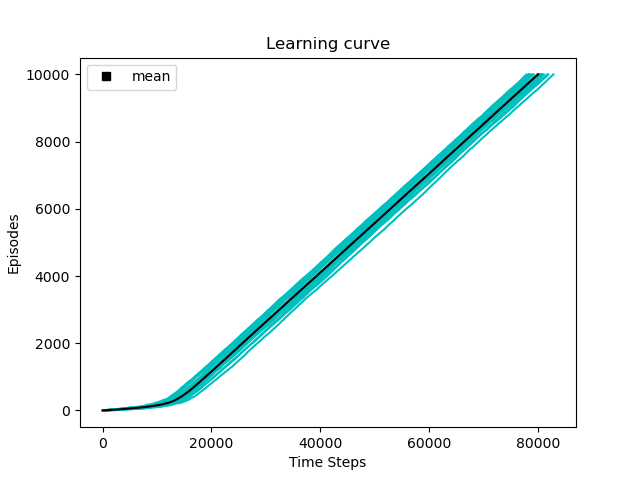
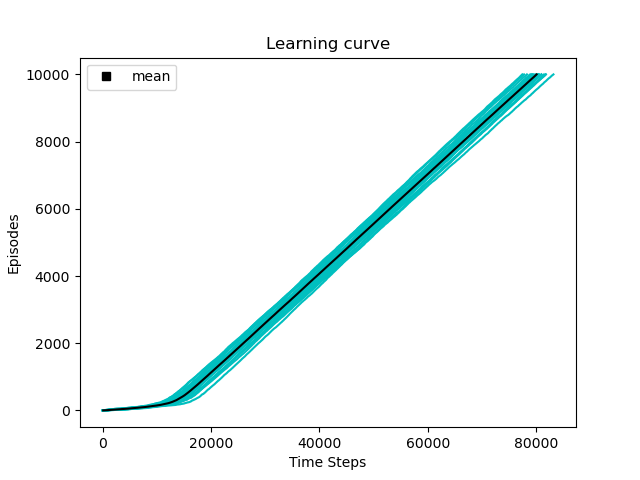
extra credit experiments

diff --git a/HW5/Mountain_Car_SARSA/MC_SARSA.py b/HW5/Mountain_Car_SARSA/MC_SARSA.py
@@ -12,19 +12,25 @@ from math import cos, pi, sin, sqrt
 import statistics
 
 class SARSA:
-    def __init__(self, alpha, gamma, delta, num_bins):
+    def __init__(self, alpha, gamma, delta, num_bins, q_init):
         self.gamma = gamma
         self.alpha = alpha
         self.delta = delta
-
+        self.num_bins = num_bins
         self.bins_x = np.linspace(start=-1.2, stop=0.5, num=num_bins)
         self.bins_v = np.linspace(start=-0.07, stop=0.07, num=num_bins)
 
         self.states = [(i, j) for j in range(num_bins + 1) for i in range(num_bins + 1)]
         self.actions = [-1, 1]
         self.v = np.array([[0.0 for j in range(num_bins + 1)] for i in range(num_bins + 1)])
-        self.q = np.array([[[0.0 for a in range(len(self.actions))] for j in range(num_bins + 1)] for i in range(num_bins + 1)])
-        self.test_pol = np.array([[[float(1/len(self.actions)) for k in range(len(self.actions))]for j in range(num_bins + 1)] for i in range(num_bins + 1)])
+        if q_init == 'zeros':
+            self.q = np.array([[[0.0 for a in range(len(self.actions))] for j in range(num_bins + 1)] for i in range(num_bins + 1)])
+        elif q_init == 'tens':
+            self.q = np.array([[[10.0 for a in range(len(self.actions))] for j in range(num_bins + 1)] for i in range(num_bins + 1)])
+        elif q_init == 'uniform':
+            self.q = np.array([[[random.uniform(0.0, 40.0) for a in range(len(self.actions))] for j in range(num_bins + 1)] for i in range(num_bins + 1)])
+        self.q[num_bins][:] = [0.0 for a in range(len(self.actions))]
+        self.test_pol = np.array([[[float(1/len(self.actions)) for k in range(len(self.actions))] for j in range(num_bins + 1)] for i in range(num_bins + 1)])
 
 
     def trans_func(self, s, a):
@@ -56,16 +62,45 @@ class SARSA:
         return self.actions[chosen_action[0]]
 
     def d0(self):
-        # s_0 = random.uniform(-0.6, -0.4)
-        s_0 = np.random.normal(loc=-0.3, scale=0.1)
-        return (s_0, 0)
+        s_0 = random.uniform(-0.6, -0.4)
+        v_0 = 0
+        # s_0 = random.uniform(-1.2, -0.5)
+        # v_0 = random.uniform(-0.07, 0.07)
+        # s_0 = np.random.normal(loc=-0.3, scale=0.1)
+        return (s_0, v_0)
 
     def reward_function(self, state):
         if state[0] == 0.5:
             return 0
         else:
             return -1
+
+    def estimate_J(self, N):
+        G = 0
+        T = 0
+        for i in range(N):
+            t, reward= self.runEpisode()
+            T += t
+            G += reward
+        return T/N, G/N
     
+    def runEpisode(self, ):
+        reward = 0
+        state = self.d0()
+        # t= 0.0
+        for t in range(1000):
+            action = self.pi_func(self.test_pol, state)
+            # print(action)
+            R = self.reward_function(state)
+            next_state = self.trans_func(state, action)
+            reward += (self.gamma**t) * R
+            if next_state[0] == 0.5:
+                break
+            state = next_state
+            t += 1.0
+        # print("t = {}".format(t))
+        return t, reward
+
     def e_soft_policy_update(self, s, eps):
         row = np.digitize([s[0]], self.bins_x)[0]
         col = np.digitize([s[1]], self.bins_v)[0]
@@ -93,10 +128,10 @@ class SARSA:
         self.test_pol[row][col] = np.exp(p - max(p))/sum(np.exp(p - max(p)))
 
 
-    def update_q(self, s, s_prime, a, r):
+    def update_q(self, s, s_prime, a, r, count):
         # x_t_prime = np.digitize([x_t_prime], self.bins_x)[0]
-        # v_t_prime =
-
+        # v_t_prime = 
+        alpha = self.alpha*(1**count)
         row = np.digitize([s[0]], self.bins_x)[0]
         col = np.digitize([s[1]], self.bins_v)[0]
         index_a = self.actions.index(a)
@@ -105,7 +140,7 @@ class SARSA:
         next_col = np.digitize([s_prime[1]], self.bins_v)[0]
         index_next_a = self.actions.index(next_a)
         self.q[row][col][index_a] = self.q[row][col][index_a] \
-            + self.alpha * (r + (self.gamma * self.q[next_row][next_col][index_next_a]) - self.q[row][col][index_a]) 
+            + alpha * (r + (self.gamma * self.q[next_row][next_col][index_next_a]) - self.q[row][col][index_a]) 
 
 
     def sarsa(self, eps):
@@ -117,6 +152,7 @@ class SARSA:
         while True:
             count += 1
             s = self.d0()
+
             num_steps = 0
             while (s[0] != 0.5):
                 num_steps += 1
@@ -125,7 +161,7 @@ class SARSA:
                 s_prime = self.trans_func(s, a)
                 r = self.reward_function(s)
 
-                self.update_q(s, s_prime, a, r)
+                self.update_q(s, s_prime, a, r, count)
 
                 self.e_soft_policy_update(s=s, eps=min(eps, 1/count))
                 # self.softmax_policy_update(s=s, sigma=count)
@@ -143,6 +179,12 @@ class SARSA:
                 break
                 
         return count, num_episodes_list, num_actions_list, num_steps_list
+    def print_policy(self):
+        actions = ["→", "←"]
+        for i in range(self.num_bins + 1):
+            for j in range(self.num_bins + 1):
+                print(actions[1 - np.argmax(self.test_pol[i][j])], end = " ")
+            print()
 
 
 def main():
@@ -151,53 +193,74 @@ def main():
     delta = 0.1
     sigma = 1
     num_bins = 5
+    eps = 0.0
+    x = 1
+    # bin_factor = [0.75, 1, 1.25, 1.5, 1.75, 2]
+    # for x in bin_factor:
+    # 
+    for q_init in ['zeros','tens','uniform']:
+        num_acts_mean_list = []
+        num_steps_mean = []
+        J = []
+        for _ in tqdm(range(20)):
+            sarsa = SARSA(alpha=alpha, gamma=gamma, delta=delta, num_bins=int(x*num_bins), q_init=q_init)
+            count, num_episodes_list, num_actions_list, num_steps_list = sarsa.sarsa(eps=eps)
+            # print("evaluate policy")
+            # sarsa.print_policy()
+            J.append(sarsa.estimate_J(20)[0])
+            # plt.figure(0)
+            # plt.plot(num_actions_list, num_episodes_list, 'c')
+            # plt.title("Learning curve")
+            # plt.xlabel("Number of Steps till now")
+            # plt.ylabel("Episodes")
+            # num_acts_mean_list.append(num_actions_list)
 
-    num_acts_mean_list = []
-    num_steps_mean = []
-    for _ in tqdm(range(20)):
-        sarsa = SARSA(alpha=alpha, gamma=gamma, delta=delta, num_bins=num_bins)
-        count, num_episodes_list, num_actions_list, num_steps_list = sarsa.sarsa(eps=sigma)
+            # plt.figure(1)
+            # plt.plot(num_episodes_list, num_steps_list, 'c')
+            # plt.title("Learning curve")
+            # plt.xlabel("Time Steps")
+            # plt.ylabel("Episodes")
+            num_steps_mean.append(num_steps_list)
 
-        plt.figure(0)
-        plt.plot(num_actions_list, num_episodes_list, 'c')
-        plt.title("Learning curve")
-        plt.xlabel("Time Steps")
-        plt.ylabel("Episodes")
-        num_acts_mean_list.append(num_actions_list)
+        # column_average = [sum(sub_list) / len(sub_list) for sub_list in zip(*num_acts_mean_list)]
 
-        # plt.figure(1)
-        # plt.plot(num_episodes_list, num_steps_list, 'c')
+        # plt.figure(0)
+        # plt.plot(column_average, num_episodes_list, 'k')
         # plt.title("Learning curve")
-        # plt.xlabel("Time Steps")
+        # plt.xlabel("Number of Steps till now")
         # plt.ylabel("Episodes")
-        num_steps_mean.append(num_steps_list)
+        # # eight = mlines.Line2D([], [], color='c', marker='s', ls='', label='')
+        # nine = mlines.Line2D([], [], color='k', marker='s', ls='', label='mean')
+        # plt.legend(handles=[nine])
 
-    column_average = [sum(sub_list) / len(sub_list) for sub_list in zip(*num_acts_mean_list)]
-
-    plt.figure(0)
-    plt.plot(column_average, num_episodes_list, 'k')
-    plt.title("Learning curve")
-    plt.xlabel("Time Steps")
-    plt.ylabel("Episodes")
-    # eight = mlines.Line2D([], [], color='c', marker='s', ls='', label='')
-    nine = mlines.Line2D([], [], color='k', marker='s', ls='', label='mean')
-    plt.legend(handles=[nine])
-
-    column_average_steps = [sum(sub_list) / len(sub_list) for sub_list in zip(*num_steps_mean)]
-    column_variance_steps = [statistics.stdev(i) for i in zip(*num_steps_mean)]
-
-    plt.figure(1)
-    plt.plot(num_episodes_list, column_average_steps, 'k')
-    # plt.fill_between(column_average_steps, list(map(float.__add__, column_average_steps, column_variance_steps)), list(map(float.__sub__, column_average_steps, column_variance_steps)), facecolor='blue', alpha=0.5)
-    plt.errorbar(num_episodes_list, column_average_steps, yerr=column_variance_steps, elinewidth=0.75, linestyle='None', marker='.')
-    plt.title("Learning curve")
-    plt.ylabel("Number of Steps")
-    plt.xlabel("Episodes")
-    # eight = mlines.Line2D([], [], color='c', marker='s', ls='', label='')
-    nine = mlines.Line2D([], [], color='k', marker='s', ls='', label='mean')
-    plt.legend(handles=[nine])
-
+        column_average_steps = [sum(sub_list) / len(sub_list) for sub_list in zip(*num_steps_mean)]
+        column_variance_steps = [statistics.stdev(i) for i in zip(*num_steps_mean)]
+        print(column_average_steps[-1])
+        plt.figure(1)
+        # plt.plot(num_episodes_list, column_average_steps, 'k')
+        # plt.plot(num_episodes_list, column_average_steps, label=str(int(x*num_bins)))
+        plt.plot(num_episodes_list, column_average_steps, label=q_init)
+        # plt.fill_between(column_average_steps, list(map(float.__add__, column_average_steps, column_variance_steps)), list(map(float.__sub__, column_average_steps, column_variance_steps)), facecolor='blue', alpha=0.5)
+        # plt.errorbar(num_episodes_list, column_average_steps, yerr=column_variance_steps, elinewidth=0.75, linestyle='None')
+        plt.title("Learning curve")
+        plt.ylabel("Number of Steps")
+        plt.xlabel("Episodes")
+        # eight = mlines.Line2D([], [], color='c', marker='s', ls='', label='')
+        # nine = mlines.Line2D([], [], color='k', marker='s', ls='', label='mean')
+        # plt.legend(handles=[nine])
+        # plt.legend(bbox_to_anchor=(0., 1.02, 1., .102), loc='lower left',
+        #               ncol=2, mode="expand", borderaxespad=0.)
+        plt.legend()
+        plt.ylim((-200, 10000))
+        print("average time to reach target with learned policy = {}".format(mean(J)))
     plt.show()
+
+    # sarsa = SARSA(alpha=alpha, gamma=gamma, delta=delta, num_bins=int(x*num_bins))
+    # count, num_episodes_list, num_actions_list, num_steps_list = sarsa.sarsa(eps=eps)
+    # print("evaluate policy")
+    # print(sarsa.estimate_J(20))
+
+
 
 if __name__ == '__main__':
     main()

diff --git a/HW5/Mountain_Car_QLearning/MC_QLearning.py b/HW5/Mountain_Car_QLearning/MC_QLearning.py
@@ -127,8 +127,8 @@ class QLearning:
 
                 self.update_q(s, s_prime, a, r)
 
-                self.e_soft_policy_update(s=s, eps=min(eps, 1/count))
-                # self.softmax_policy_update(s=s, sigma=count)
+                # self.e_soft_policy_update(s=s, eps=min(eps, 1/count))
+                self.softmax_policy_update(s=s, sigma=count)
 
                 s = s_prime
             # print()
@@ -139,7 +139,7 @@ class QLearning:
             
             self.v = np.max(self.q, axis=2)
 
-            if count > 50:
+            if count > 150:
                 break
                 
         return count, num_episodes_list, num_actions_list, num_steps_list
@@ -155,14 +155,14 @@ def main():
 
     num_acts_mean_list = []
     num_steps_mean = []
-    for _ in tqdm(range(10)):
+    for _ in tqdm(range(20)):
         ql = QLearning(alpha=alpha, gamma=gamma, delta=delta, num_bins=num_bins)
         count, num_episodes_list, num_actions_list, num_steps_list = ql.qlearning(eps=eps)
 
         plt.figure(0)
         plt.plot(num_actions_list, num_episodes_list, 'c')
         plt.title("Learning curve")
-        plt.xlabel("Time Steps")
+        plt.xlabel("Number of Steps till now")
         plt.ylabel("Episodes")
         num_acts_mean_list.append(num_actions_list)
 
@@ -178,7 +178,7 @@ def main():
     plt.figure(0)
     plt.plot(column_average, num_episodes_list, 'k')
     plt.title("Learning curve")
-    plt.xlabel("Time Steps")
+    plt.xlabel("Number of Steps till now")
     plt.ylabel("Episodes")
     # eight = mlines.Line2D([], [], color='c', marker='s', ls='', label='')
     nine = mlines.Line2D([], [], color='k', marker='s', ls='', label='mean')
@@ -190,7 +190,7 @@ def main():
     plt.figure(1)
     plt.plot(num_episodes_list, column_average_steps, 'k')
     # plt.fill_between(column_average_steps, list(map(float.__add__, column_average_steps, column_variance_steps)), list(map(float.__sub__, column_average_steps, column_variance_steps)), facecolor='blue', alpha=0.5)
-    plt.errorbar(num_episodes_list, column_average_steps, yerr=column_variance_steps, elinewidth=0.75, linestyle='None', marker='.')
+    plt.errorbar(num_episodes_list, column_average_steps, yerr=column_variance_steps, elinewidth=0.75, linestyle='None')
     plt.title("Learning curve")
     plt.ylabel("Number of Steps")
     plt.xlabel("Episodes")

diff --git a/HW5/Q_Learning/Q_Learning.py b/HW5/Q_Learning/Q_Learning.py
@@ -352,7 +352,7 @@ class QLearning():
             if count % 250 == 0:
                 mse.append(self.mse(self.v, self.v_star))
                 itr_number.append(count)
-            if count > 10000:
+            if count > 2000:
                 break
             # for s in self.states:
             #     self.v[s[0]][s[1]] = sum([self.test_pol[s[0]][s[1]][a_index]*self.q[s[0]][s[1]][a_index] for a_index, a in enumerate(self.actions)])
@@ -449,7 +449,7 @@ def main():
     alpha = 0.01
     delta = 0.1
     sigma = 1
-    print("running SARSA")
+    print("running Q Learning")
     num_acts_mean_list = []
     mse_mean_list = []
     for _ in tqdm(range(20)):
@@ -459,7 +459,7 @@ def main():
         plt.figure(0)
         plt.plot(num_actions_list, num_episodes_list, 'c')
         plt.title("Learning curve")
-        plt.xlabel("Time Steps")
+        plt.xlabel("Number of Steps")
         plt.ylabel("Episodes")
 
         plt.figure(1)
